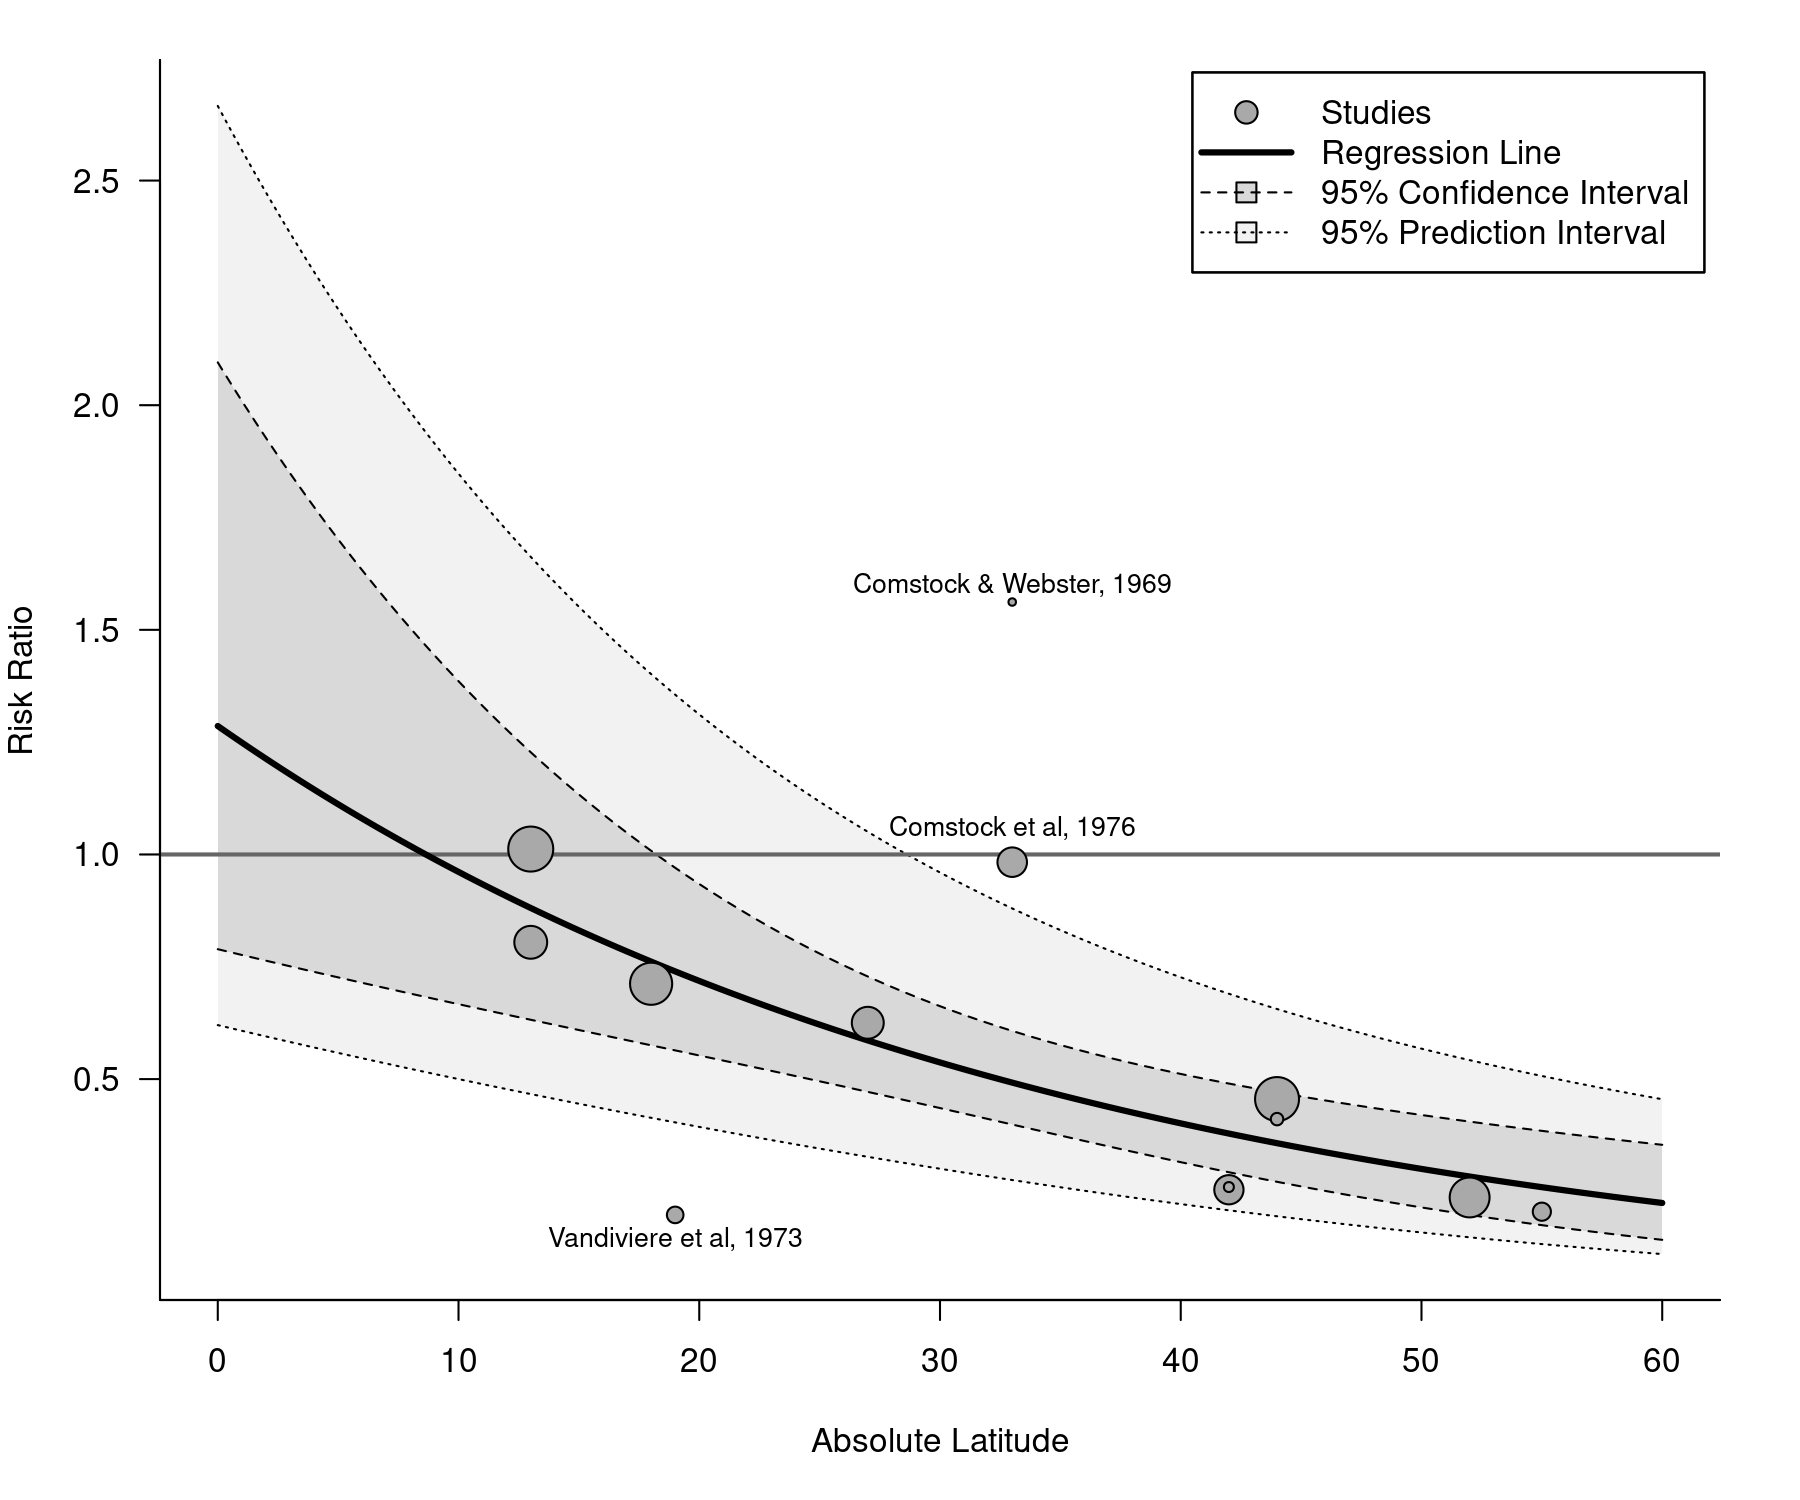
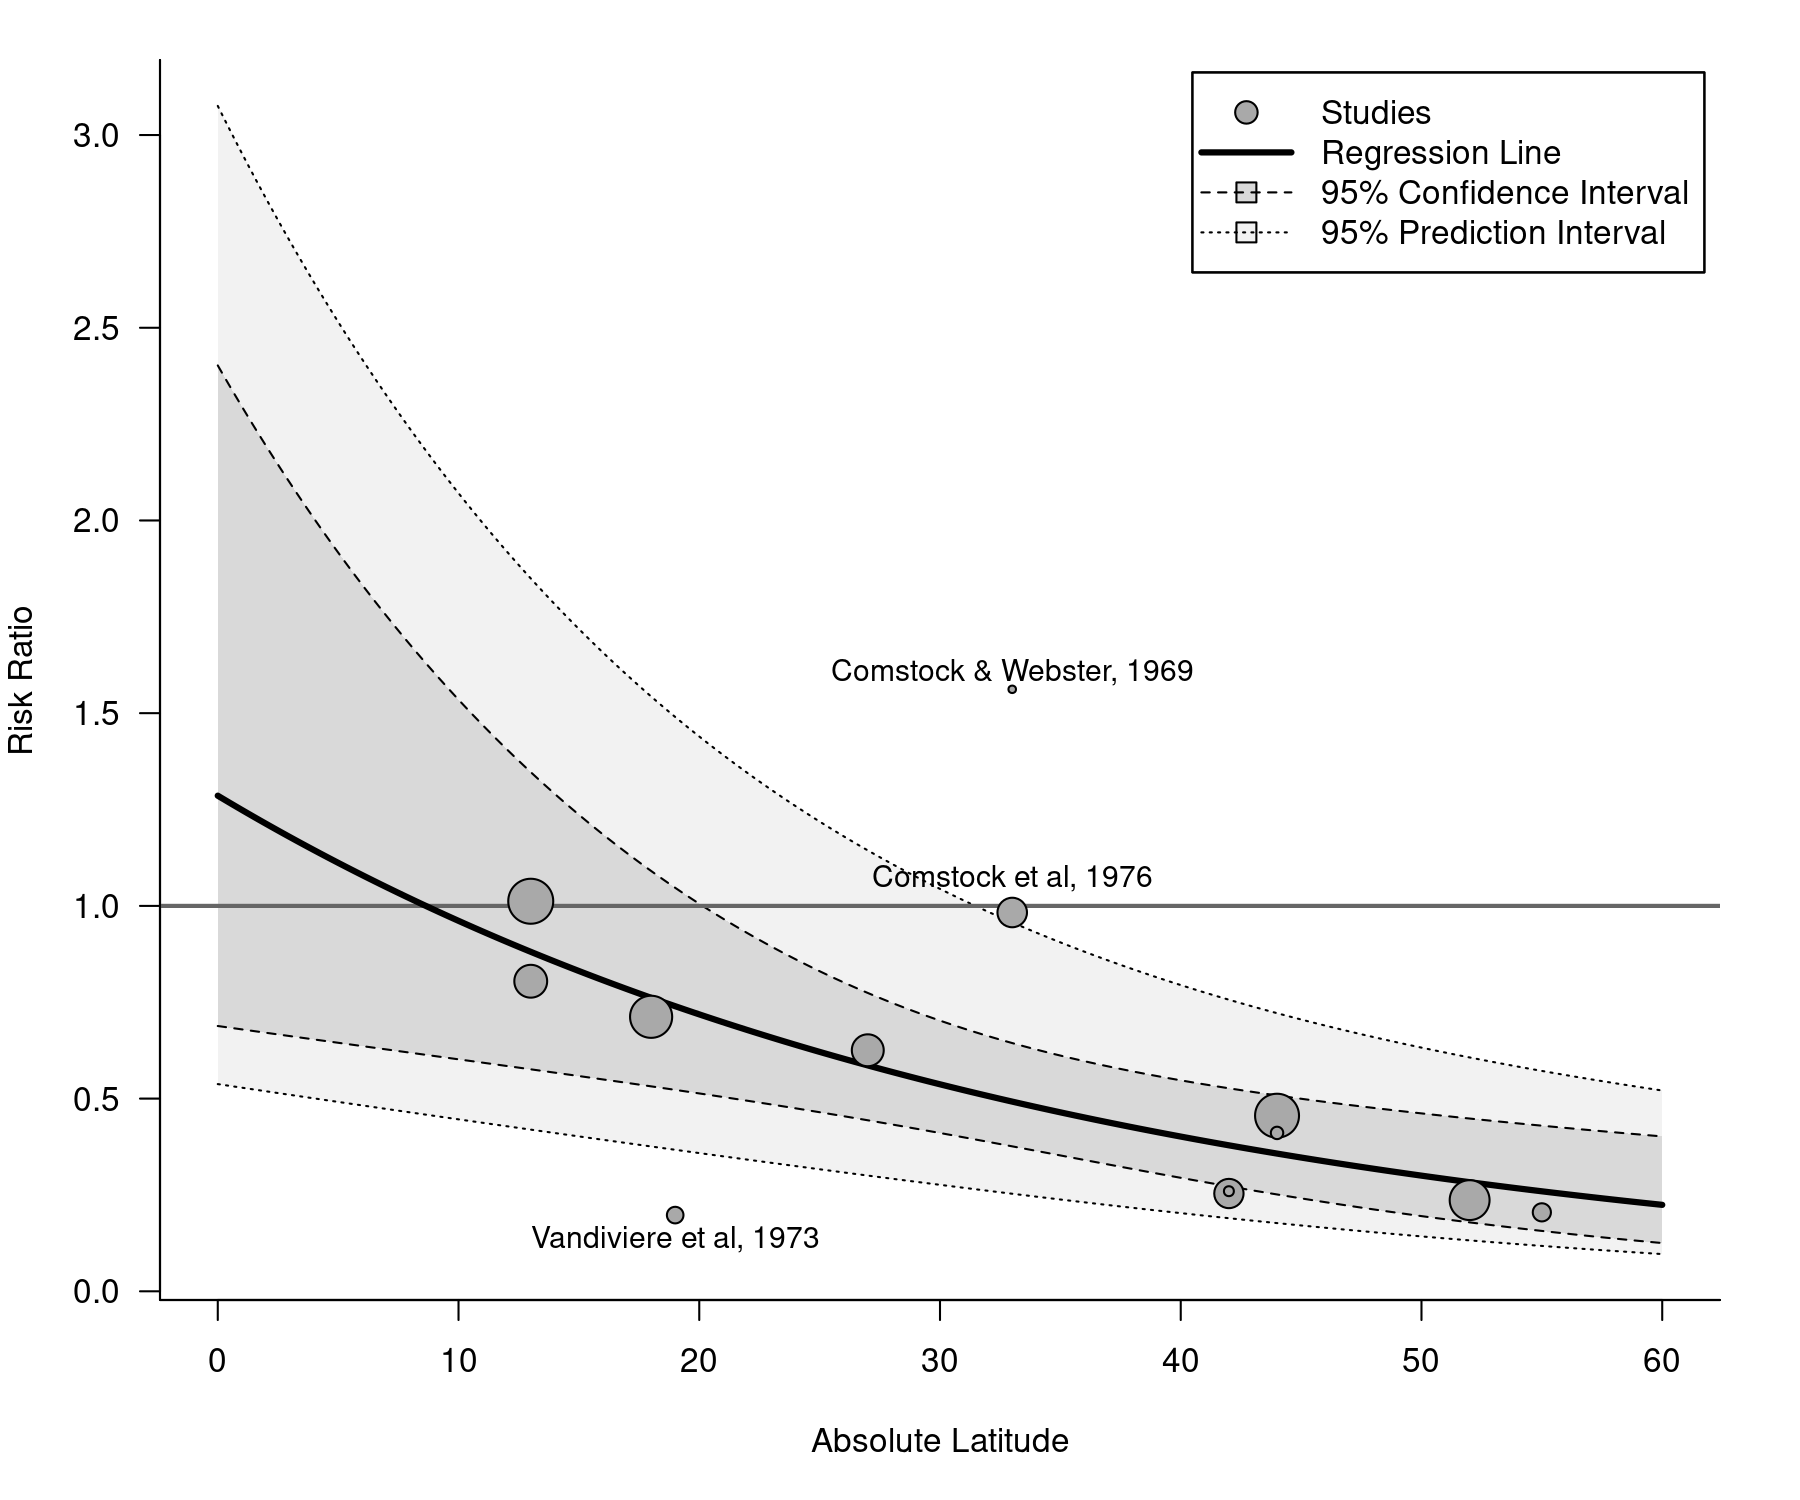
Use test='knha' in example.

diff --git a/docs/index.html b/docs/index.html
@@ -222,7 +222,7 @@
 <span class="co">## 13    13       Comstock et al 1976   27 16886   29 17825    33 systematic -0.0173 0.0714</span></code></pre>
 <div class="sourceCode" id="cb7"><pre class="downlit sourceCode r">
 <code class="sourceCode R"><span class="co"># fit random-effects model</span>
-<span class="va">res</span> <span class="op">&lt;-</span> <span class="fu"><a href="reference/rma.uni.html">rma</a></span><span class="op">(</span><span class="va">yi</span>, <span class="va">vi</span>, data<span class="op">=</span><span class="va">dat</span><span class="op">)</span>
+<span class="va">res</span> <span class="op">&lt;-</span> <span class="fu"><a href="reference/rma.uni.html">rma</a></span><span class="op">(</span><span class="va">yi</span>, <span class="va">vi</span>, data<span class="op">=</span><span class="va">dat</span>, test<span class="op">=</span><span class="st">"knha"</span><span class="op">)</span>
 <span class="va">res</span></code></pre></div>
 <pre><code><span class="co">## Random-Effects Model (k = 13; tau^2 estimator: REML)</span>
 <span class="co">##</span>
@@ -236,8 +236,8 @@
 <span class="co">##</span>
 <span class="co">## Model Results:</span>
 <span class="co">##</span>
-<span class="co">## estimate      se     zval    pval    ci.lb    ci.ub</span>
-<span class="co">##  -0.7145  0.1798  -3.9744  &lt;.0001  -1.0669  -0.3622  ***</span>
+<span class="co">## estimate      se     tval  df    pval    ci.lb    ci.ub</span>
+<span class="co">##  -0.7145  0.1808  -3.9522  12  0.0019  -1.1084  -0.3206  **</span>
 <span class="co">##</span>
 <span class="co">## ---</span>
 <span class="co">## Signif. codes:  0 '***' 0.001 '**' 0.01 '*' 0.05 '.' 0.1 ' ' 1</span></code></pre>
@@ -245,7 +245,7 @@
 <code class="sourceCode R"><span class="co"># predicted pooled risk ratio (with 95% CI/PI)</span>
 <span class="fu"><a href="reference/predict.rma.html">predict</a></span><span class="op">(</span><span class="va">res</span>, transf<span class="op">=</span><span class="va">exp</span>, digits<span class="op">=</span><span class="fl">2</span><span class="op">)</span></code></pre></div>
 <pre><code><span class="co">## pred ci.lb ci.ub pi.lb pi.ub</span>
-<span class="co">## 0.49  0.34  0.70  0.15  1.55</span></code></pre>
+<span class="co">## 0.49  0.33  0.73  0.14  1.76</span></code></pre>
 <div class="sourceCode" id="cb11"><pre class="downlit sourceCode r">
 <code class="sourceCode R"><span class="co"># forest plot</span>
 <span class="fu"><a href="reference/forest.html">forest</a></span><span class="op">(</span><span class="va">res</span>, atransf<span class="op">=</span><span class="va">exp</span>, at<span class="op">=</span><span class="fu"><a href="https://rdrr.io/r/base/Log.html" class="external-link">log</a></span><span class="op">(</span><span class="fu"><a href="https://rdrr.io/r/base/c.html" class="external-link">c</a></span><span class="op">(</span><span class="fl">.05</span>, <span class="fl">.25</span>, <span class="fl">1</span>, <span class="fl">4</span><span class="op">)</span><span class="op">)</span>, xlim<span class="op">=</span><span class="fu"><a href="https://rdrr.io/r/base/c.html" class="external-link">c</a></span><span class="op">(</span><span class="op">-</span><span class="fl">16</span>,<span class="fl">6</span><span class="op">)</span>,
@@ -266,11 +266,11 @@
 <span class="co">## Model:     mixed-effects meta-regression model</span>
 <span class="co">## Predictor: standard error</span>
 <span class="co">##</span>
-<span class="co">## Test for Funnel Plot Asymmetry: z = -0.8033, p = 0.4218</span>
-<span class="co">## Limit Estimate (as sei -&gt; 0):   b = -0.5104 (CI: -1.1182, 0.0974)</span></code></pre>
+<span class="co">## Test for Funnel Plot Asymmetry: t = -0.7812, df = 11, p = 0.4512</span>
+<span class="co">## Limit Estimate (as sei -&gt; 0):   b = -0.5104 (CI: -1.2123, 0.1915)</span></code></pre>
 <div class="sourceCode" id="cb15"><pre class="downlit sourceCode r">
 <code class="sourceCode R"><span class="co"># mixed-effects model with absolute latitude as moderators</span>
-<span class="va">res</span> <span class="op">&lt;-</span> <span class="fu"><a href="reference/rma.uni.html">rma</a></span><span class="op">(</span><span class="va">yi</span>, <span class="va">vi</span>, mods <span class="op">=</span> <span class="op">~</span> <span class="va">ablat</span>, data<span class="op">=</span><span class="va">dat</span><span class="op">)</span>
+<span class="va">res</span> <span class="op">&lt;-</span> <span class="fu"><a href="reference/rma.uni.html">rma</a></span><span class="op">(</span><span class="va">yi</span>, <span class="va">vi</span>, mods <span class="op">=</span> <span class="op">~</span> <span class="va">ablat</span>, data<span class="op">=</span><span class="va">dat</span>, test<span class="op">=</span><span class="st">"knha"</span><span class="op">)</span>
 <span class="va">res</span></code></pre></div>
 <pre><code><span class="co">## Mixed-Effects Model (k = 13; tau^2 estimator: REML)</span>
 <span class="co">##</span>
@@ -284,13 +284,13 @@
 <span class="co">## QE(df = 11) = 30.7331, p-val = 0.0012</span>
 <span class="co">##</span>
 <span class="co">## Test of Moderators (coefficient 2):</span>
-<span class="co">## QM(df = 1) = 16.3571, p-val &lt; .0001</span>
+<span class="co">## F(df1 = 1, df2 = 11) = 12.5905, p-val = 0.0046</span>
 <span class="co">##</span>
 <span class="co">## Model Results:</span>
 <span class="co">##</span>
-<span class="co">##          estimate      se     zval    pval    ci.lb    ci.ub</span>
-<span class="co">## intrcpt    0.2515  0.2491   1.0095  0.3127  -0.2368   0.7397</span>
-<span class="co">## ablat     -0.0291  0.0072  -4.0444  &lt;.0001  -0.0432  -0.0150  ***</span>
+<span class="co">##          estimate      se     tval  df    pval    ci.lb    ci.ub</span>
+<span class="co">## intrcpt    0.2515  0.2839   0.8857  11  0.3948  -0.3735   0.8764</span>
+<span class="co">## ablat     -0.0291  0.0082  -3.5483  11  0.0046  -0.0472  -0.0111  **</span>
 <span class="co">##</span>
 <span class="co">## ---</span>
 <span class="co">## Signif. codes:  0 '***' 0.001 '**' 0.01 '*' 0.05 '.' 0.1 ' ' 1</span></code></pre>
@@ -298,7 +298,7 @@
 <code class="sourceCode R"><span class="co"># bubble plot (with points outside of the prediction interval labeled)</span>
 <span class="fu"><a href="reference/regplot.html">regplot</a></span><span class="op">(</span><span class="va">res</span>, mod<span class="op">=</span><span class="st">"ablat"</span>, pi<span class="op">=</span><span class="cn">TRUE</span>, xlab<span class="op">=</span><span class="st">"Absolute Latitude"</span>,
         xlim<span class="op">=</span><span class="fu"><a href="https://rdrr.io/r/base/c.html" class="external-link">c</a></span><span class="op">(</span><span class="fl">0</span>,<span class="fl">60</span><span class="op">)</span>, predlim<span class="op">=</span><span class="fu"><a href="https://rdrr.io/r/base/c.html" class="external-link">c</a></span><span class="op">(</span><span class="fl">0</span>,<span class="fl">60</span><span class="op">)</span>, transf<span class="op">=</span><span class="va">exp</span>, refline<span class="op">=</span><span class="fl">1</span>, legend<span class="op">=</span><span class="cn">TRUE</span>,
-        label<span class="op">=</span><span class="st">"piout"</span>, labsize<span class="op">=</span><span class="fl">0.8</span>, bty<span class="op">=</span><span class="st">"l"</span>, las<span class="op">=</span><span class="fl">1</span>, digits<span class="op">=</span><span class="fl">1</span><span class="op">)</span></code></pre></div>
+        label<span class="op">=</span><span class="st">"piout"</span>, labsize<span class="op">=</span><span class="fl">0.9</span>, bty<span class="op">=</span><span class="st">"l"</span>, las<span class="op">=</span><span class="fl">1</span>, digits<span class="op">=</span><span class="fl">1</span><span class="op">)</span></code></pre></div>
 <p><img src="reference/figures/ex_bubble_plot.png"></p>
 </div>
 <div class="section level2">

diff --git a/docs/reference/formula.rma.html b/docs/reference/formula.rma.html
@@ -144,13 +144,13 @@
 <span class="r-in"><span class="va">res</span> <span class="op">&lt;-</span> <span class="fu"><a href="rma.uni.html">rma</a></span><span class="op">(</span><span class="va">yi</span>, <span class="va">vi</span>, mods <span class="op">=</span> <span class="op">~</span> <span class="va">ablat</span> <span class="op">+</span> <span class="va">alloc</span>, data<span class="op">=</span><span class="va">dat</span><span class="op">)</span></span>
 <span class="r-in"><span class="fu">formula</span><span class="op">(</span><span class="va">res</span>, type<span class="op">=</span><span class="st">"mods"</span><span class="op">)</span></span>
 <span class="r-out co"><span class="r-pr">#&gt;</span> ~ablat + alloc</span>
-<span class="r-out co"><span class="r-pr">#&gt;</span> &lt;environment: 0x55aac1921ee8&gt;</span>
+<span class="r-out co"><span class="r-pr">#&gt;</span> &lt;environment: 0x564439345830&gt;</span>
 <span class="r-in"></span>
 <span class="r-in"><span class="co">### specify moderators via 'yi' argument</span></span>
 <span class="r-in"><span class="va">res</span> <span class="op">&lt;-</span> <span class="fu"><a href="rma.uni.html">rma</a></span><span class="op">(</span><span class="va">yi</span> <span class="op">~</span> <span class="va">ablat</span> <span class="op">+</span> <span class="va">alloc</span>, <span class="va">vi</span>, data<span class="op">=</span><span class="va">dat</span><span class="op">)</span></span>
 <span class="r-in"><span class="fu">formula</span><span class="op">(</span><span class="va">res</span>, type<span class="op">=</span><span class="st">"yi"</span><span class="op">)</span></span>
 <span class="r-out co"><span class="r-pr">#&gt;</span> yi ~ ablat + alloc</span>
-<span class="r-out co"><span class="r-pr">#&gt;</span> &lt;environment: 0x55aac72e1c20&gt;</span>
+<span class="r-out co"><span class="r-pr">#&gt;</span> &lt;environment: 0x564438f37158&gt;</span>
 </code></pre></div>
     </div>
   </div>

diff --git a/docs/reference/reporter.html b/docs/reference/reporter.html
@@ -179,12 +179,12 @@
 <span class="r-in"><span class="co">### generate report</span></span>
 <span class="r-in"><span class="fu">reporter</span><span class="op">(</span><span class="va">res</span><span class="op">)</span></span>
 <span class="r-msg co"><span class="r-pr">#&gt;</span> </span>
-<span class="r-msg co"><span class="r-pr">#&gt;</span> Directory for generating the report is: /tmp/RtmpHeKAl5</span>
+<span class="r-msg co"><span class="r-pr">#&gt;</span> Directory for generating the report is: /tmp/RtmppAm27o</span>
 <span class="r-msg co"><span class="r-pr">#&gt;</span> Copying references.bib and apa.csl to report directory ...</span>
 <span class="r-msg co"><span class="r-pr">#&gt;</span> Saving model object to report_res.rdata ...</span>
 <span class="r-msg co"><span class="r-pr">#&gt;</span> Creating report_res.rmd file ...</span>
 <span class="r-msg co"><span class="r-pr">#&gt;</span> Rendering report_res.rmd file ...</span>
-<span class="r-msg co"><span class="r-pr">#&gt;</span> Generated /tmp/RtmpHeKAl5/report_res.html ...</span>
+<span class="r-msg co"><span class="r-pr">#&gt;</span> Generated /tmp/RtmppAm27o/report_res.html ...</span>
 <span class="r-msg co"><span class="r-pr">#&gt;</span> Opening report ...</span>
 <span class="r-in"><span class="co"># }</span></span>
 </code></pre></div>

diff --git a/README.md b/README.md
@@ -112,7 +112,7 @@ dat
 
 ```r
 # fit random-effects model
-res <- rma(yi, vi, data=dat)
+res <- rma(yi, vi, data=dat, test="knha")
 res
 ```
 
@@ -129,8 +129,8 @@ res
 ##
 ## Model Results:
 ##
-## estimate      se     zval    pval    ci.lb    ci.ub
-##  -0.7145  0.1798  -3.9744  <.0001  -1.0669  -0.3622  ***
+## estimate      se     tval  df    pval    ci.lb    ci.ub
+##  -0.7145  0.1808  -3.9522  12  0.0019  -1.1084  -0.3206  **
 ##
 ## ---
 ## Signif. codes:  0 '***' 0.001 '**' 0.01 '*' 0.05 '.' 0.1 ' ' 1
@@ -143,7 +143,7 @@ predict(res, transf=exp, digits=2)
 
 ```
 ## pred ci.lb ci.ub pi.lb pi.ub
-## 0.49  0.34  0.70  0.15  1.55
+## 0.49  0.33  0.73  0.14  1.76
 ```
 
 ```r
@@ -175,13 +175,13 @@ regtest(res)
 ## Model:     mixed-effects meta-regression model
 ## Predictor: standard error
 ##
-## Test for Funnel Plot Asymmetry: z = -0.8033, p = 0.4218
-## Limit Estimate (as sei -> 0):   b = -0.5104 (CI: -1.1182, 0.0974)
+## Test for Funnel Plot Asymmetry: t = -0.7812, df = 11, p = 0.4512
+## Limit Estimate (as sei -> 0):   b = -0.5104 (CI: -1.2123, 0.1915)
 ```
 
 ```r
 # mixed-effects model with absolute latitude as moderators
-res <- rma(yi, vi, mods = ~ ablat, data=dat)
+res <- rma(yi, vi, mods = ~ ablat, data=dat, test="knha")
 res
 ```
 
@@ -198,13 +198,13 @@ res
 ## QE(df = 11) = 30.7331, p-val = 0.0012
 ##
 ## Test of Moderators (coefficient 2):
-## QM(df = 1) = 16.3571, p-val < .0001
+## F(df1 = 1, df2 = 11) = 12.5905, p-val = 0.0046
 ##
 ## Model Results:
 ##
-##          estimate      se     zval    pval    ci.lb    ci.ub
-## intrcpt    0.2515  0.2491   1.0095  0.3127  -0.2368   0.7397
-## ablat     -0.0291  0.0072  -4.0444  <.0001  -0.0432  -0.0150  ***
+##          estimate      se     tval  df    pval    ci.lb    ci.ub
+## intrcpt    0.2515  0.2839   0.8857  11  0.3948  -0.3735   0.8764
+## ablat     -0.0291  0.0082  -3.5483  11  0.0046  -0.0472  -0.0111  **
 ##
 ## ---
 ## Signif. codes:  0 '***' 0.001 '**' 0.01 '*' 0.05 '.' 0.1 ' ' 1
@@ -214,7 +214,7 @@ res
 # bubble plot (with points outside of the prediction interval labeled)
 regplot(res, mod="ablat", pi=TRUE, xlab="Absolute Latitude",
         xlim=c(0,60), predlim=c(0,60), transf=exp, refline=1, legend=TRUE,
-        label="piout", labsize=0.8, bty="l", las=1, digits=1)
+        label="piout", labsize=0.9, bty="l", las=1, digits=1)
 ```
 
 ![](man/figures/ex_bubble_plot.png)
